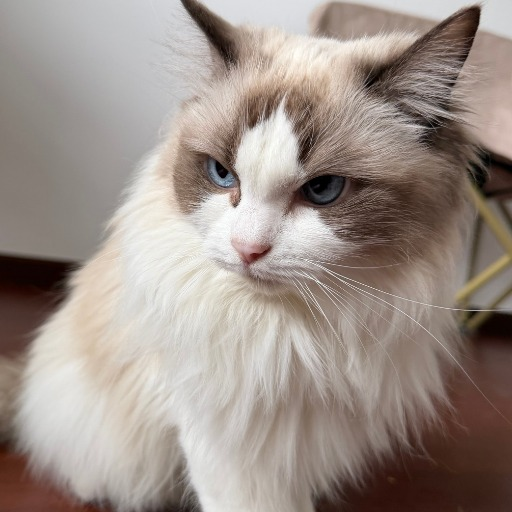
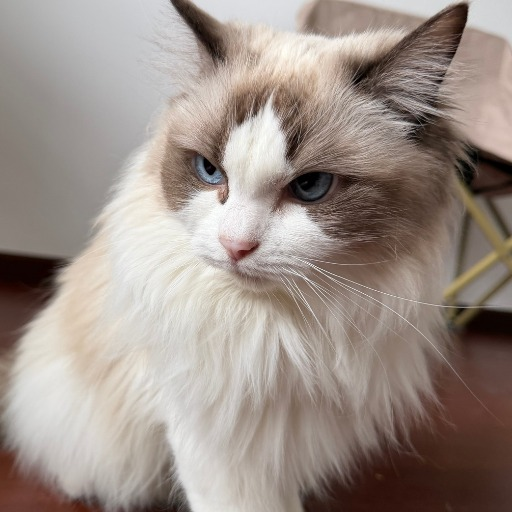
啵啵头像再换（用户新选；桌面屏头像缓存 v6）

diff --git a/firmware/display/src/net/net_rest.cpp b/firmware/display/src/net/net_rest.cpp
@@ -136,8 +136,8 @@ static bool avatar_download_decode(const String &cat_id, uint16_t *out) {
   bool ok = got > 0 && decode_avatar(buf, got, out);
   if (ok) {
     // 缓存到 LittleFS
-    if (!LittleFS.exists("/avatars_v5")) LittleFS.mkdir("/avatars_v5");
-    String p = "/avatars_v5/" + cat_id + ".jpg";
+    if (!LittleFS.exists("/avatars_v6")) LittleFS.mkdir("/avatars_v6");
+    String p = "/avatars_v6/" + cat_id + ".jpg";
     File f = LittleFS.open(p, "w");
     if (f) {
       f.write(buf, got);
@@ -162,7 +162,7 @@ bool rest_fetch_cats() {
     CatInfo info;
     info.id = c["id"].as<String>();
     info.name = c["name"].as<String>();
-    info.avatar_path = "/avatars_v5/" + info.id + ".jpg";
+    info.avatar_path = "/avatars_v6/" + info.id + ".jpg";
     auto it = old_counts.find(info.id);
     if (it != old_counts.end()) info.today_count = it->second;
     g_state.cats.push_back(info);
@@ -181,7 +181,7 @@ bool rest_fetch_cats() {
     if (!pixels) continue;
     bool ok = false;
     // 优先 LittleFS 缓存
-    String p = "/avatars_v5/" + id + ".jpg";  // v5：啵啵换新头像
+    String p = "/avatars_v6/" + id + ".jpg";  // v6：啵啵再换新头像
     if (LittleFS.exists(p)) {
       File f = LittleFS.open(p, "r");
       size_t len = f.size();
